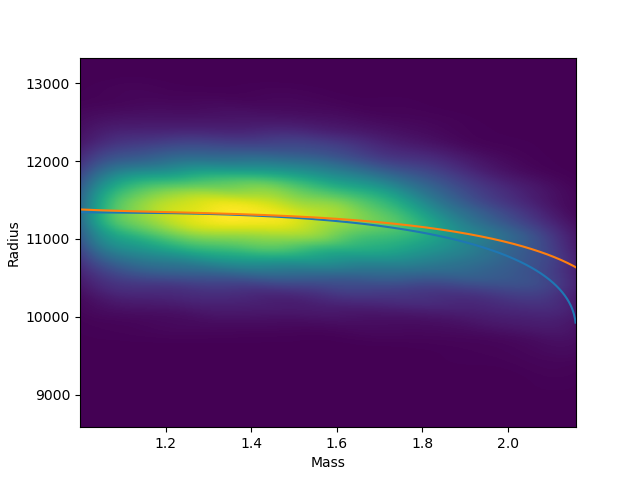
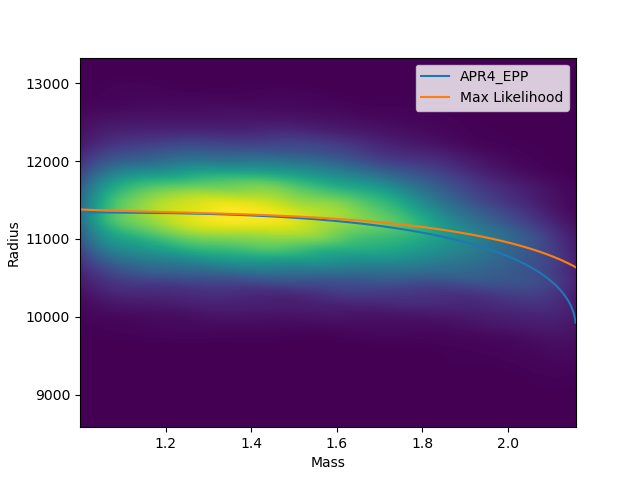
Testing new plot scripts

Changed region(s): [[0.625, 0.125, 0.9062, 0.25]]

diff --git a/emcee_post.py b/emcee_post.py
@@ -93,7 +93,8 @@ def plot_m_eos_val_on_kde(MCMC_distribution_file, label, N=1000):
     names = ["APR4_EPP", "Max Likelihood"]
 
     x = 0
-    for combo in [true_parameters, max_parameters]:
+    combos = [true_parameters, max_parameters]
+    for combo in combos:
 
         log_p1_SI, g1, g2, g3 = combo
 
@@ -118,6 +119,7 @@ def plot_m_eos_val_on_kde(MCMC_distribution_file, label, N=1000):
         pl.plot(working_masses,working_radii,label=names[x])
         x += 1
 
+    pl.legend()
     pl.savefig("emcee_files/plots/mass_radii_{}.png".format(label))
 
 def plot_parameter_distribution(filename, label):
